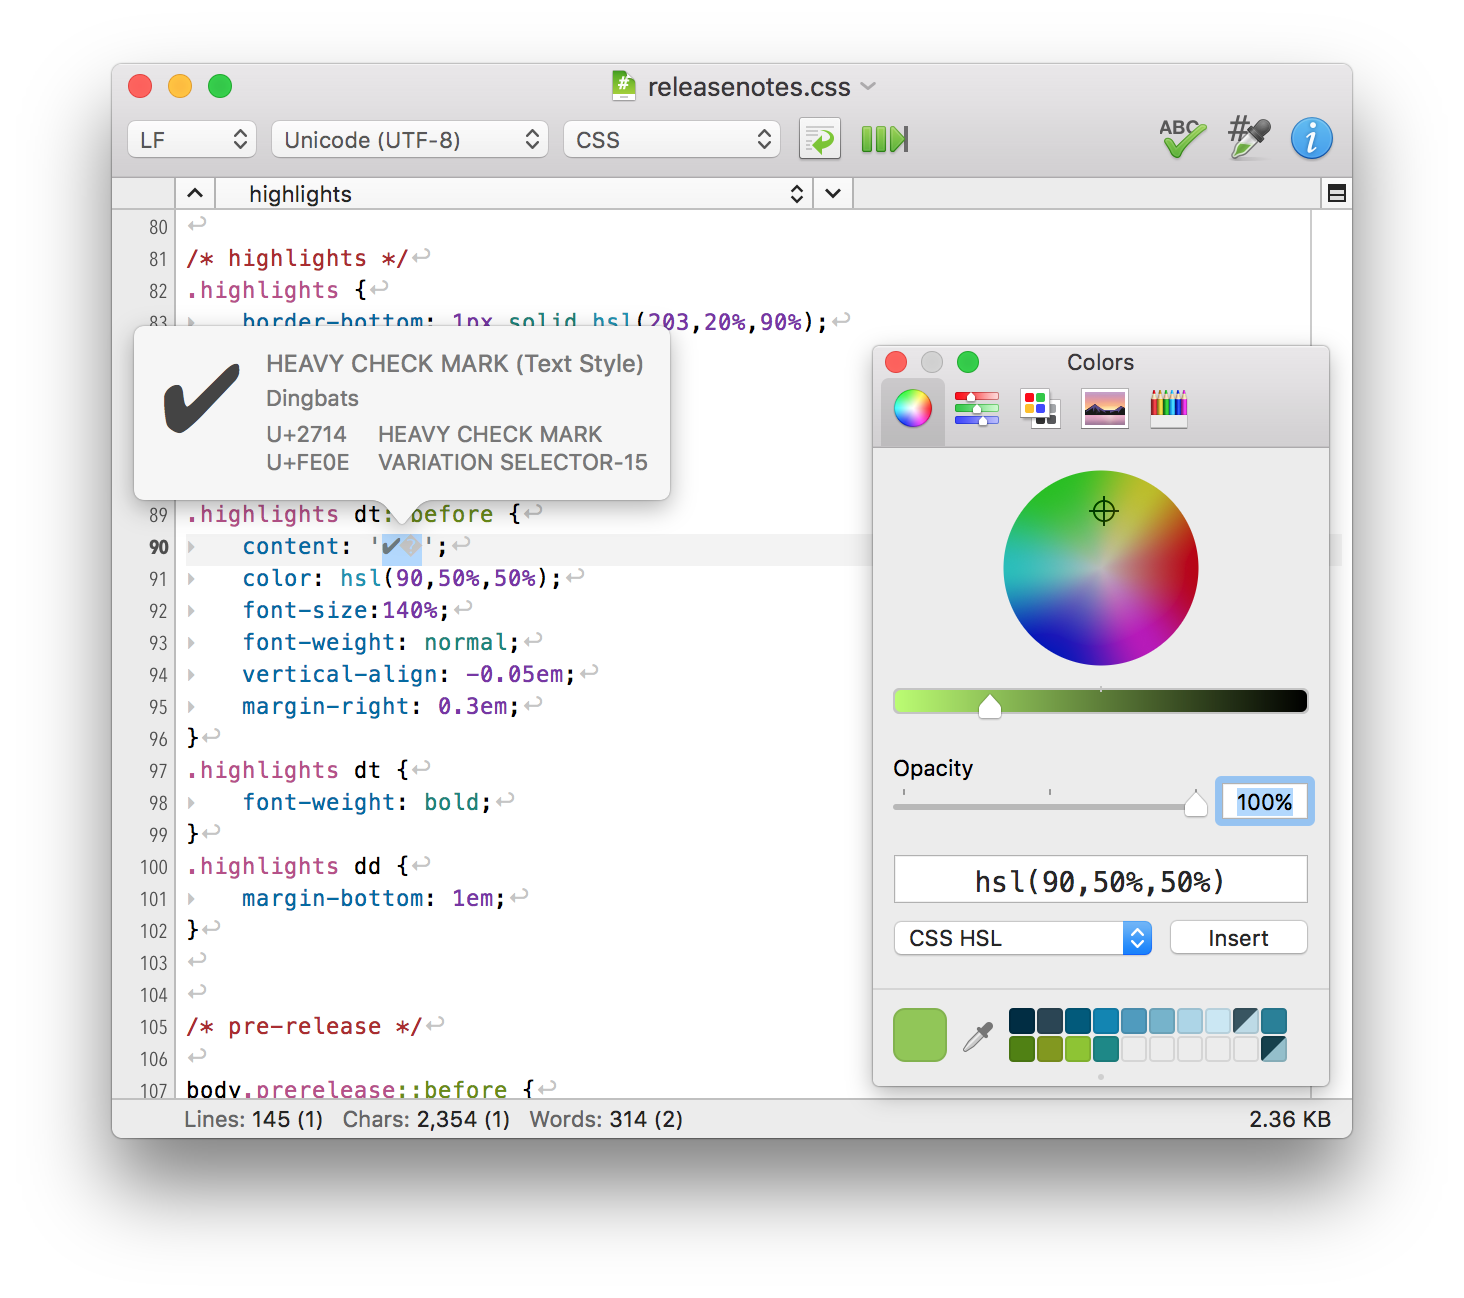
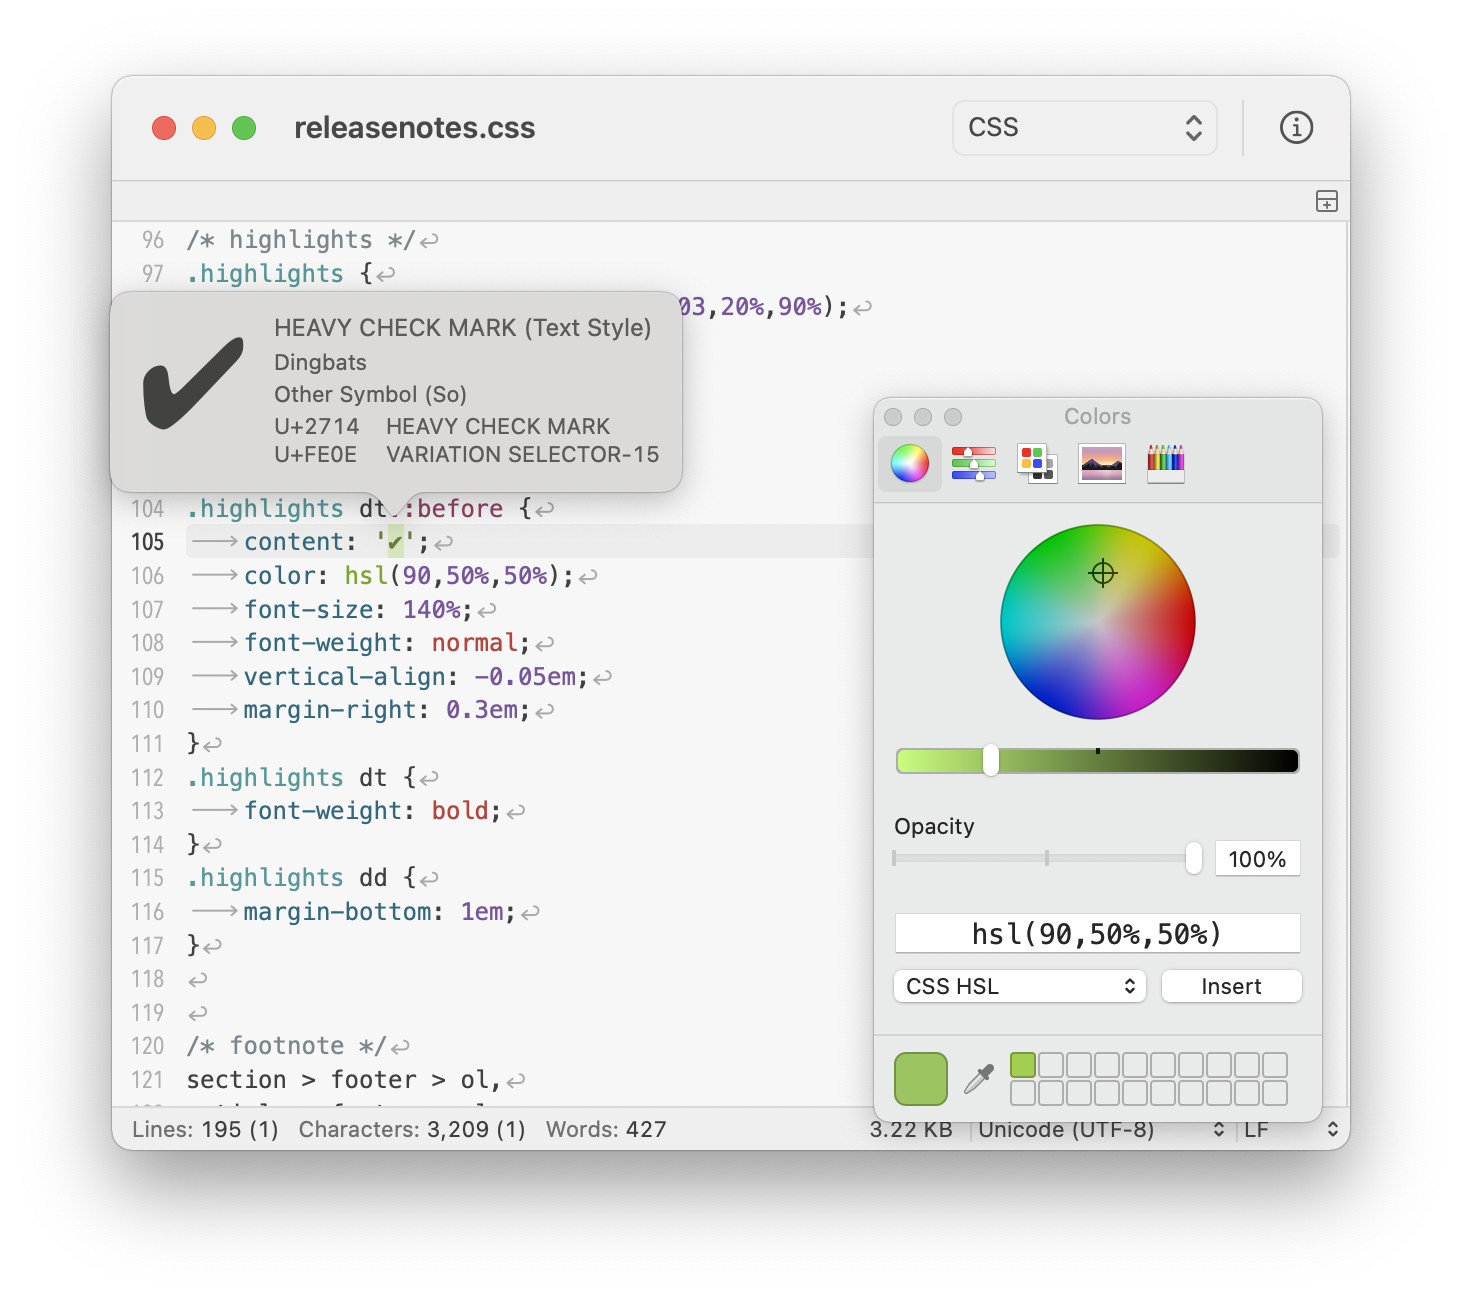
Retake screenshots in Big Sur

Changed region(s): [[0.0615, 0.0308, 0.9221, 0.8937]]

diff --git a/index.ja.html b/index.ja.html
@@ -68,31 +68,37 @@
 		<input type="radio" name="control-operator" id="item3"/>
 		<input type="radio" name="control-operator" id="item4"/>
 		<input type="radio" name="control-operator" id="item5"/>
+		<input type="radio" name="control-operator" id="item6"/>
 
 		<div class="slides">
 			<figure>
-				<img src="img/screenshots/screenshot.ja.png" width="732"
-			      srcset="img/screenshots/screenshot@2x.ja.png 2x"
-			      alt="[screenshot]"/>
+				<img src="img/screenshots/screenshot@2x.ja.png"
+				  srcset="img/screenshots/screenshot@2x.ja.png 2x"
+				  width="732" height="649"
+				  alt="[screenshot]"/>
 			</figure>
 			<figure>
-				<img src="img/screenshots/find.ja.png" width="732"
-			      srcset="img/screenshots/find@2x.ja.png 2x"
-			      alt="[screenshot: find panel]"/>
+				<img src="img/screenshots/darkmode@2x.ja.png"
+				  srcset="img/screenshots/darkmode@2x.ja.png 2x"
+				  width="732" height="649"
+				  alt="[screenshot: Dark Mode]"/>
 			</figure>
 			<figure>
-				<img src="img/screenshots/tools.ja.png" width="732"
-			      srcset="img/screenshots/tools@2x.ja.png 2x"
-			      alt="[screenshot: tools]"/>
+				<img src="img/screenshots/tools@2x.ja.png"
+				  srcset="img/screenshots/tools@2x.ja.png 2x"
+				  width="732" height="649"
+				  alt="[screenshot: tools]"/>
 			</figure>
 			<figure>
-				<img src="img/screenshots/verticalOrientation.ja.png" width="732"
-			      srcset="img/screenshots/verticalOrientation@2x.ja.png 2x"
-			      alt="[screenshot: vertical orientation]"/>
+				<img src="img/screenshots/verticalOrientation@2x.ja.png"
+				  srcset="img/screenshots/verticalOrientation@2x.ja.png 2x"
+				  width="732" height="649"
+				  alt="[screenshot: vertical orientation]"/>
 			</figure>
 			<figure>
-				<img src="img/screenshots/preferences.ja.png" width="662"
-			      srcset="img/screenshots/preferences@2x.ja.png 2x"
+				<img src="img/screenshots/preferences@2x.ja.png"
+				  srcset="img/screenshots/preferences@2x.ja.png 2x"
+				  width="682" height="613"
 				  alt="[screenshot: preferences window]"/>
 			</figure>
 		</div>
@@ -103,6 +109,7 @@
 			<label for="item3"></label>
 			<label for="item4"></label>
 			<label for="item5"></label>
+			<label for="item6"></label>
 		</div>
 	</section>
 

diff --git a/index.html b/index.html
@@ -67,31 +67,37 @@
 		<input type="radio" name="control-operator" id="item3"/>
 		<input type="radio" name="control-operator" id="item4"/>
 		<input type="radio" name="control-operator" id="item5"/>
+		<input type="radio" name="control-operator" id="item6"/>
 
 		<div class="slides">
 			<figure>
-				<img src="img/screenshots/screenshot.png" width="732"
-			      srcset="img/screenshots/screenshot@2x.png 2x"
-			      alt="[screenshot]"/>
+				<img src="img/screenshots/screenshot@2x.png"
+				  srcset="img/screenshots/screenshot@2x.png 2x"
+				  width="732" height="649"
+				  alt="[screenshot]"/>
 			</figure>
 			<figure>
-				<img src="img/screenshots/find.png" width="732"
-			      srcset="img/screenshots/find@2x.png 2x"
-			      alt="[screenshot: find panel]"/>
+				<img src="img/screenshots/darkmode@2x.ja.png"
+				  srcset="img/screenshots/darkmode@2x.ja.png 2x"
+				  width="732" height="649"
+				  alt="[screenshot: Dark Mode]"/>
 			</figure>
 			<figure>
-				<img src="img/screenshots/tools.png" width="732"
-			      srcset="img/screenshots/tools@2x.png 2x"
-			      alt="[screenshot: tools]"/>
+				<img src="img/screenshots/tools@2x.png"
+				  srcset="img/screenshots/tools@2x.png 2x"
+				  width="732" height="649"
+				  alt="[screenshot: tools]"/>
 			</figure>
 			<figure>
-				<img src="img/screenshots/verticalOrientation.png" width="732"
-			      srcset="img/screenshots/verticalOrientation@2x.png 2x"
-			      alt="[screenshot: vertical orientation]"/>
+				<img src="img/screenshots/verticalOrientation@2x.png"
+				  srcset="img/screenshots/verticalOrientation@2x.png 2x"
+				  width="732" height="649"
+				  alt="[screenshot: vertical orientation]"/>
 			</figure>
 			<figure>
-				<img src="img/screenshots/preferences.png" width="662"
-			      srcset="img/screenshots/preferences@2x.png 2x"
+				<img src="img/screenshots/preferences@2x.png"
+				  srcset="img/screenshots/preferences@2x.png 2x"
+				  width="682" height="613"
 				  alt="[screenshot: preferences window]"/>
 			</figure>
 		</div>
@@ -102,6 +108,7 @@
 			<label for="item3"></label>
 			<label for="item4"></label>
 			<label for="item5"></label>
+			<label for="item6"></label>
 		</div>
 	</section>
 

diff --git a/contact.ja.html b/contact.ja.html
@@ -50,8 +50,7 @@
 <p>CotEditorの使い方についてなにか質問がありますか？ CotEditorはアプリケーション本体にメニューバーからアクセスできるヘルプを内蔵しています。</p>
 
 <figure>
-	<img src="img/contacts/help.png" width="430"
-		srcset="img/contacts/help.ja@2x.png 2x"
+	<img src="img/contacts/help@2x.ja.png" width="430" height="280"
 		alt="Help menu in the main menu on CotEditor."/>
 </figure>
 </section>

diff --git a/contact.html b/contact.html
@@ -50,8 +50,7 @@
 <p>Do you have a question about using CotEditor? CotEditor itself has great help contents that can be accessed from the Help menu.</p>
 
 <figure>
-	<img src="img/contacts/help.png" width="430"
-		srcset="img/contacts/help@2x.png 2x"
+	<img src="img/contacts/help@2x.png" width="430" height="280"
 		alt="Help menu in the main menu on CotEditor."/>
 </figure>
 </section>
